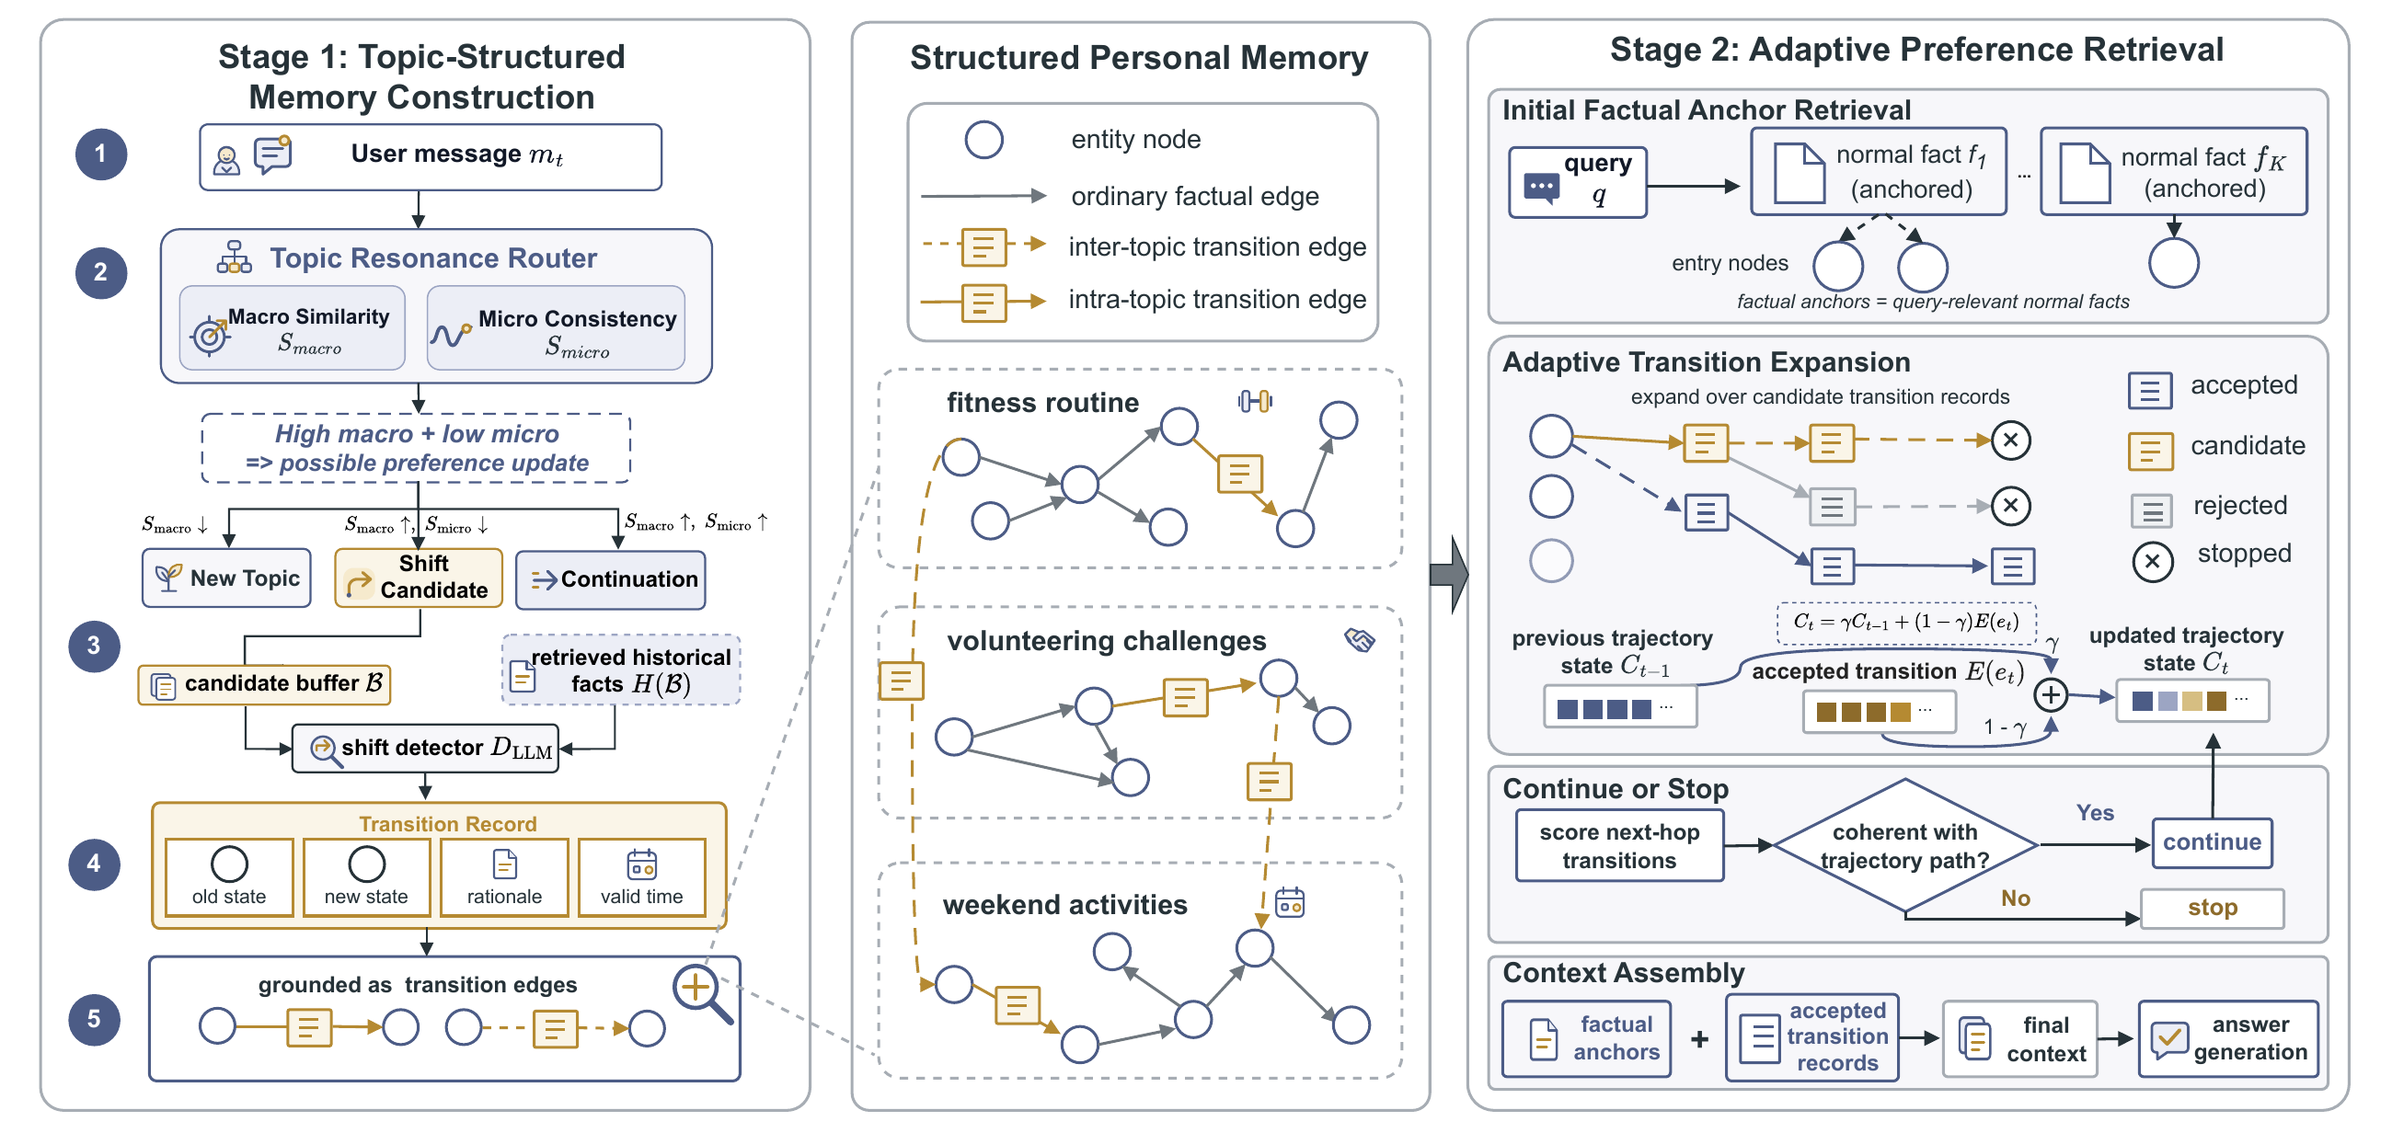
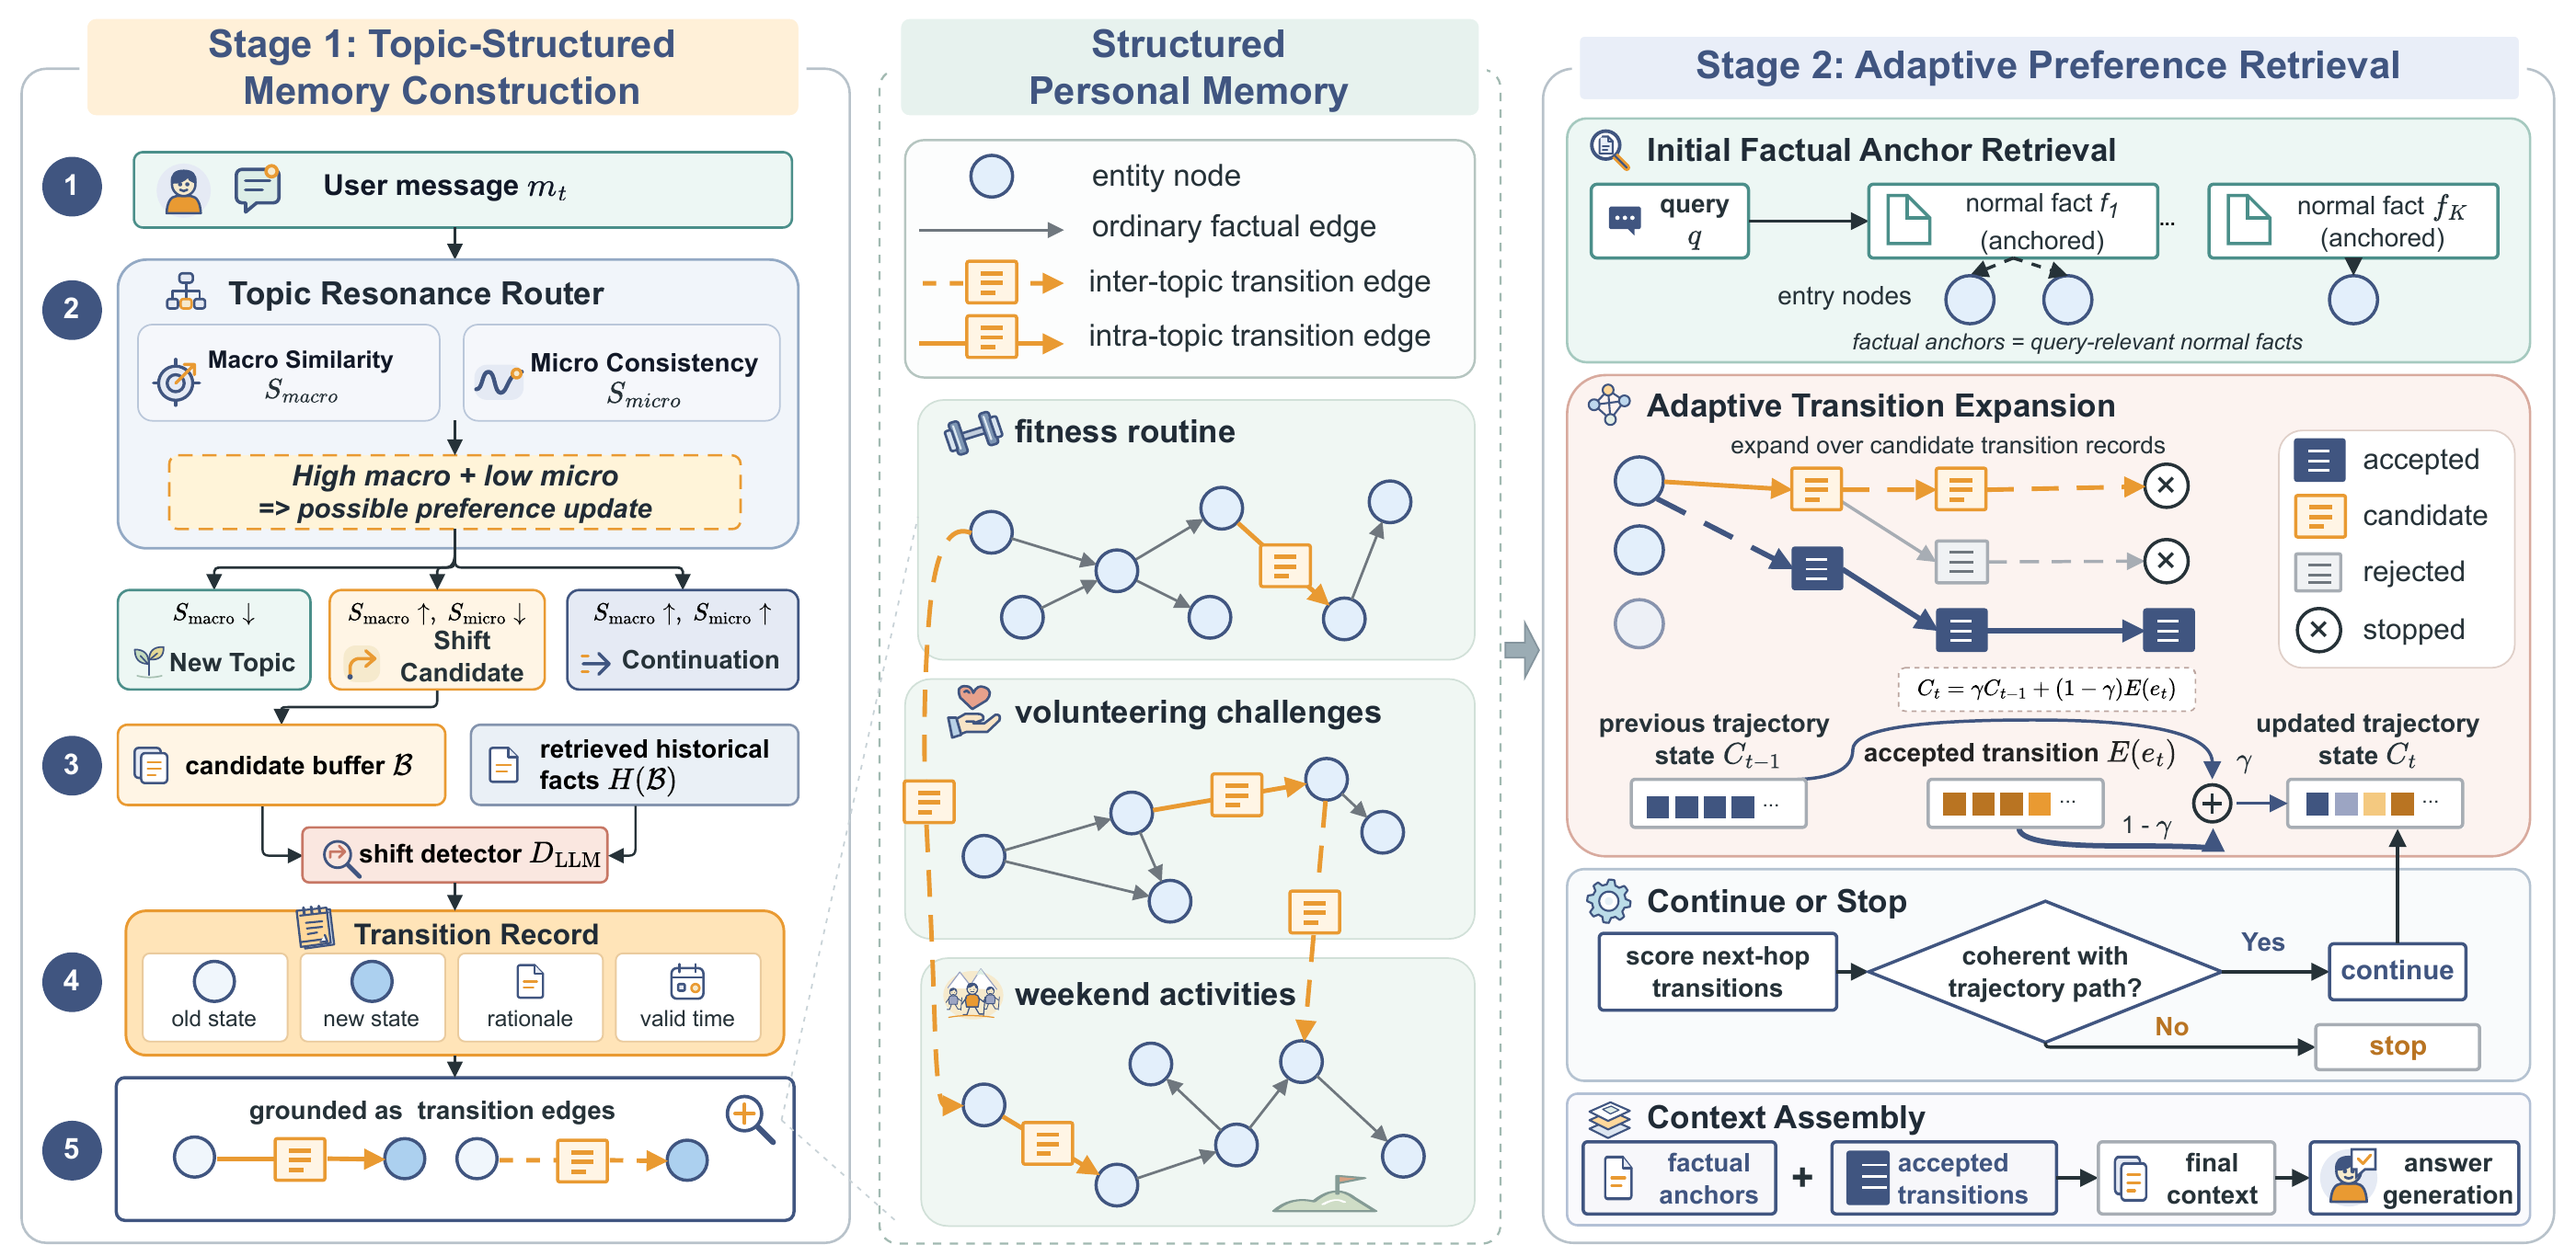
Polish release documentation and update TransMem overview

Changed region(s): [[0.0, 0.0, 0.9969, 1.0]]

diff --git a/src/graphiti_core/utils/bulk_utils.py b/src/graphiti_core/utils/bulk_utils.py
@@ -1,6 +1,8 @@
 """
 Copyright 2024, Zep Software, Inc.
 
+Modified for TransMem. See docs/graphiti_changes.patch for source changes.
+
 Licensed under the Apache License, Version 2.0 (the "License");
 you may not use this file except in compliance with the License.
 You may obtain a copy of the License at
@@ -222,7 +224,7 @@ async def add_nodes_and_edges_bulk_tx(
         await driver.graph_operations_interface.edge_save_bulk(None, driver, tx, edges)
 
     elif driver.provider == GraphProvider.KUZU:
-        # FIXME: Kuzu's UNWIND does not currently support STRUCT[] type properly, so we insert the data one by one instead for now.
+        # Insert records individually because Kuzu UNWIND does not support STRUCT[] properly.
         episode_query = get_episode_node_save_bulk_query(driver.provider)
         for episode in episodes:
             await tx.run(episode_query, **episode)

diff --git a/src/graphiti_core/llm_client/openai_generic_client.py b/src/graphiti_core/llm_client/openai_generic_client.py
@@ -98,12 +98,7 @@ class OpenAIGenericClient(LLMClient):
         self._warned_small_model_fallback = False
 
     def _get_model_for_size(self, model_size: ModelSize) -> str:
-        """Return the configured model for the requested size.
-
-        OpenAIGenericClient historically ignored `model_size` and always used the
-        main model. HEART-Evo uses this client path, so we wire the Graphiti
-        small-model contract through here as well.
-        """
+        """Return the configured model for the requested size."""
         if model_size == ModelSize.small:
             if self.small_model:
                 return self.small_model

diff --git a/src/graphiti_core/search/search_utils.py b/src/graphiti_core/search/search_utils.py
@@ -1240,7 +1240,8 @@ async def get_relevant_nodes(
         if embedding_size == 0:
             return []
 
-        # FIXME: Kuzu currently does not support using variables such as `node.fulltext_query` as an input to FTS, which means `get_relevant_nodes()` won't work with Kuzu as the graph driver.
+        # Kuzu FTS does not accept node.fulltext_query as a variable input;
+        # this branch uses vector similarity instead of full-text search.
         query = (
             """
                                                                                                                                     UNWIND $nodes AS node

diff --git a/src/transmem/retrieval.py b/src/transmem/retrieval.py
@@ -30,7 +30,7 @@ def expand(query_vector, anchors, transitions, config):
     anchor_nodes = {a[k] for a in anchors for k in ('source', 'target')}
     seeds = []
     for edge in transitions:
-        # Source-first matches the legacy choice when both endpoints are anchors.
+        # Prefer the source when both endpoints are anchors.
         anchor = next((node for node in (edge['source'], edge['target'])
                        if node in anchor_nodes), None)
         if anchor is not None:

diff --git a/README.md b/README.md
@@ -13,7 +13,7 @@ how a user's preferences have evolved.
 [Implementation details](docs/implementation.md) | [Service setup](docs/services.md)
 
 This repository provides TransMem construction, retrieval, and evaluation on
-the processed [PersonaMem subsets](data/personamem/README.md).
+the processed [PersonaMem](data/personamem/README.md).
 Baseline reproductions and PersonaBench evaluation are not included.
 
 ## Installation
@@ -63,16 +63,13 @@ If you use TransMem, please cite:
   author    = {Chen, Shigeng and Luo, Linhao and Shi, Changlong and Qiu, Zhangchi and Pan, Shirui},
   booktitle = {Advances in Neural Information Processing Systems},
   year      = {2026},
-  note      = {Accepted; to appear},
-  url       = {https://github.com/Aries-chen/TransMem}
+  note      = {Accepted; to appear}
 }
 ```
-
-Please also cite [PersonaMem](data/personamem/README.md) when using its processed data.
 
 ## Acknowledgments and Licenses
 
 Graph construction builds on [Graphiti](https://github.com/getzep/graphiti).
-See [third-party notices](THIRD_PARTY_NOTICES.md) for attribution and modifications.
+See [attribution and modifications](docs/implementation.md#third-party-notices).
 
 Code: [Apache-2.0](LICENSE). PersonaMem data: [MIT](data/personamem/LICENSE).

diff --git a/docs/implementation.md b/docs/implementation.md
@@ -52,11 +52,15 @@ Graphiti loads. See [source changes](graphiti_changes.patch) and the
 Resolved settings are saved in each run's `config.json`.
 See `python -m transmem.main --help` for command-line overrides.
 
-## Unit Tests
+## Third-Party Notices
 
-```bash
-python -m unittest discover -s tests -v
-```
+`src/graphiti_core` contains modified [Graphiti](https://github.com/getzep/graphiti)
+code, copyright 2024 Zep Software, Inc., under [Apache-2.0](../LICENSE).
+Original copyright headers and per-file modification notices are retained.
+The [source diff](graphiti_changes.patch) and [manifest](graphiti_source_manifest.json)
+compare the bundled source against Graphiti `v0.24.3`
+(`24105b955669f6473ad0324618f452cda07896f9`). Use the bundled code rather than
+installing a separate `graphiti-core` package.
 
-These tests use synthetic inputs and mocks without model or database services.
-They do not replace the service-backed quick start or a full evaluation.
+PersonaMem data is separately [MIT-licensed](../data/personamem/LICENSE).
+Qwen, BGE-M3, and spaCy model weights are not bundled and retain their own licenses.
